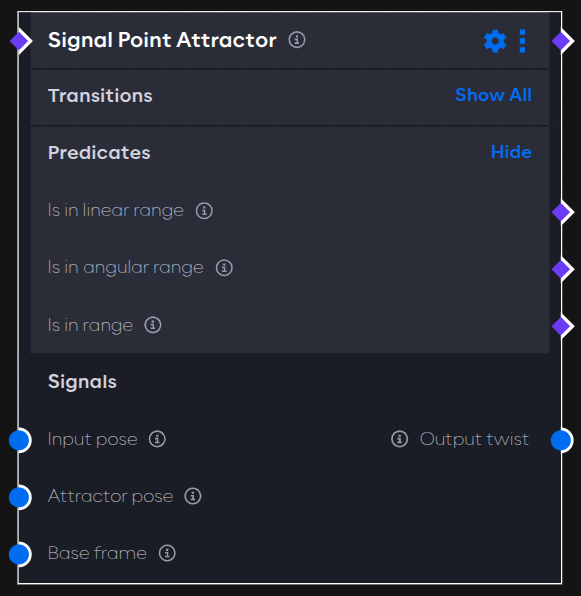
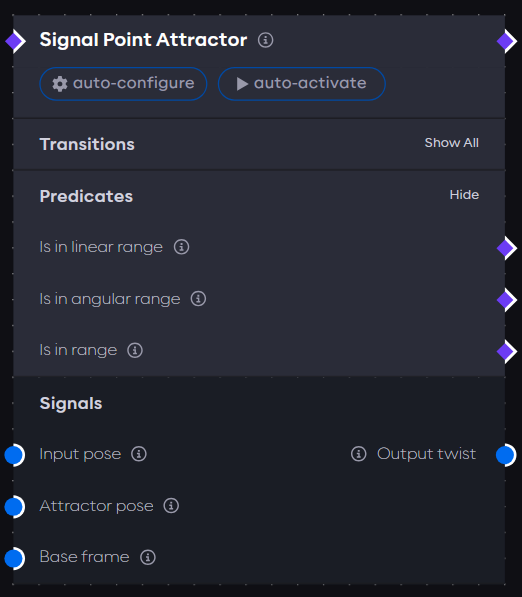
New v5 version of the attractor

diff --git a/docs/core/examples/core-components/point-attractor.md b/docs/core/examples/core-components/point-attractor.md
@@ -68,8 +68,8 @@ To set up this example, follow the steps below.
 
 1. Create a new application and record the tool frame of the robot of your choice as described
    [here](../guides/application-frames#record-frame-in-3d-scene-view).
-2. In the same application, add the `Frame to Signal` component. Open its parameter settings, turn on auto-configure and
-   auto-activate and set the required parameter `Frame` to the name of the recorded frame from step 1.
+2. In the same application, add the `Frame to Signal` component. Click on auto-configure and auto-activate to enable
+   them and in the component settings, set the required parameter `Frame` to the name of the recorded frame from step 1.
    :::tip
    Learn more about the `Frame to Signal` component [here](/docs/concepts/building-blocks/frames#frame-to-signal).
    :::
@@ -91,9 +91,9 @@ dynamically attracted towards the frame.
   <summary>Application YAML</summary>
 
     ```yaml
-    schema: 2-0-4
+    schema: 2-0-6
     dependencies:
-      core: v4.4.2
+      core: v5.0.0
     frames:
       target:
         reference_frame: world
